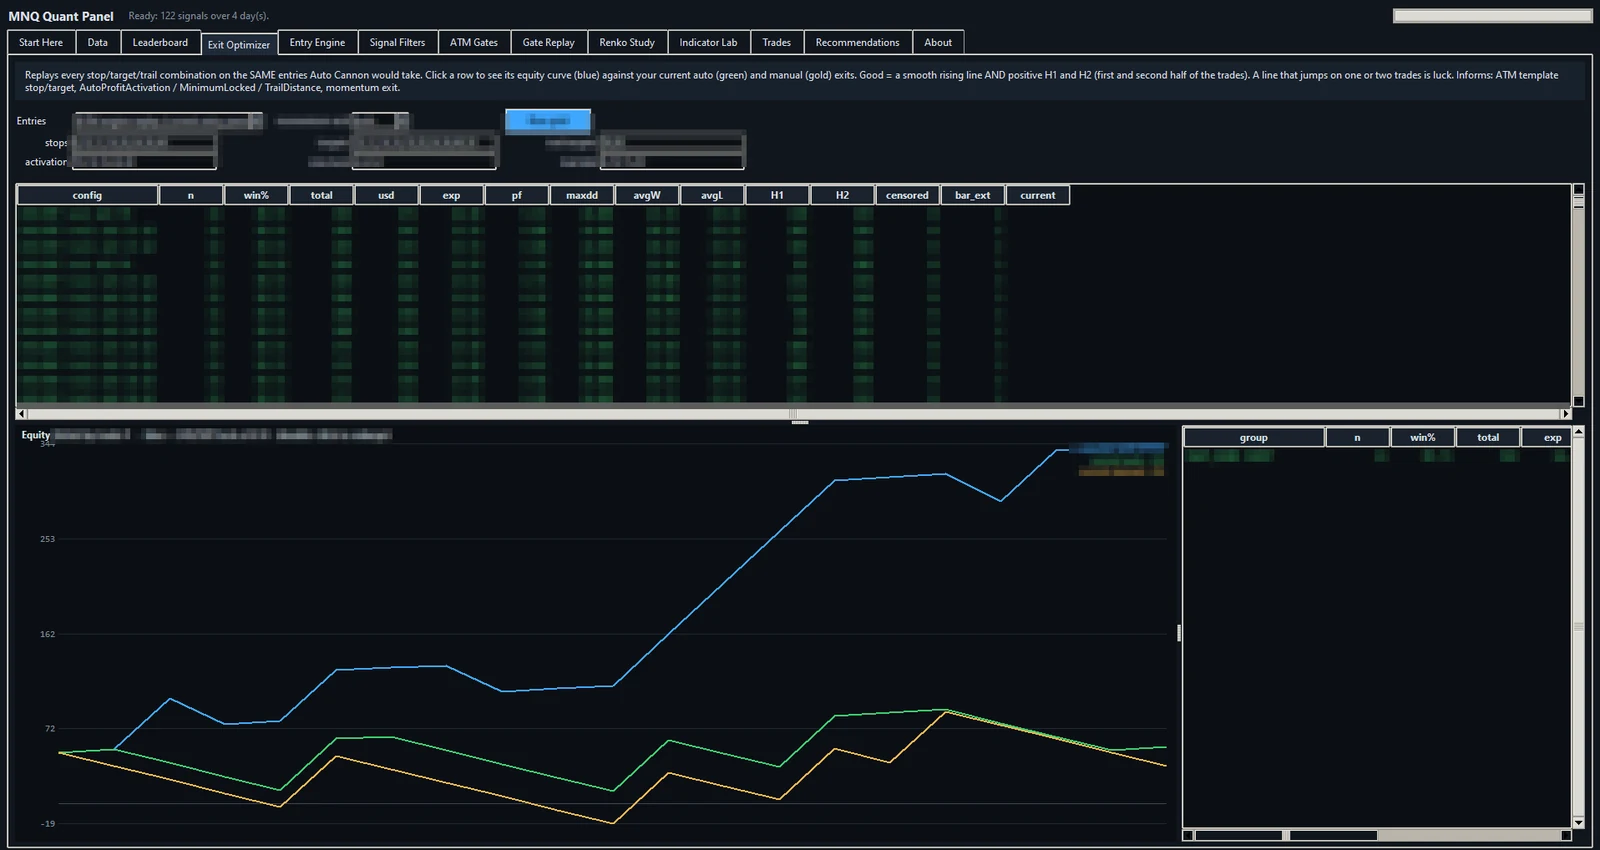
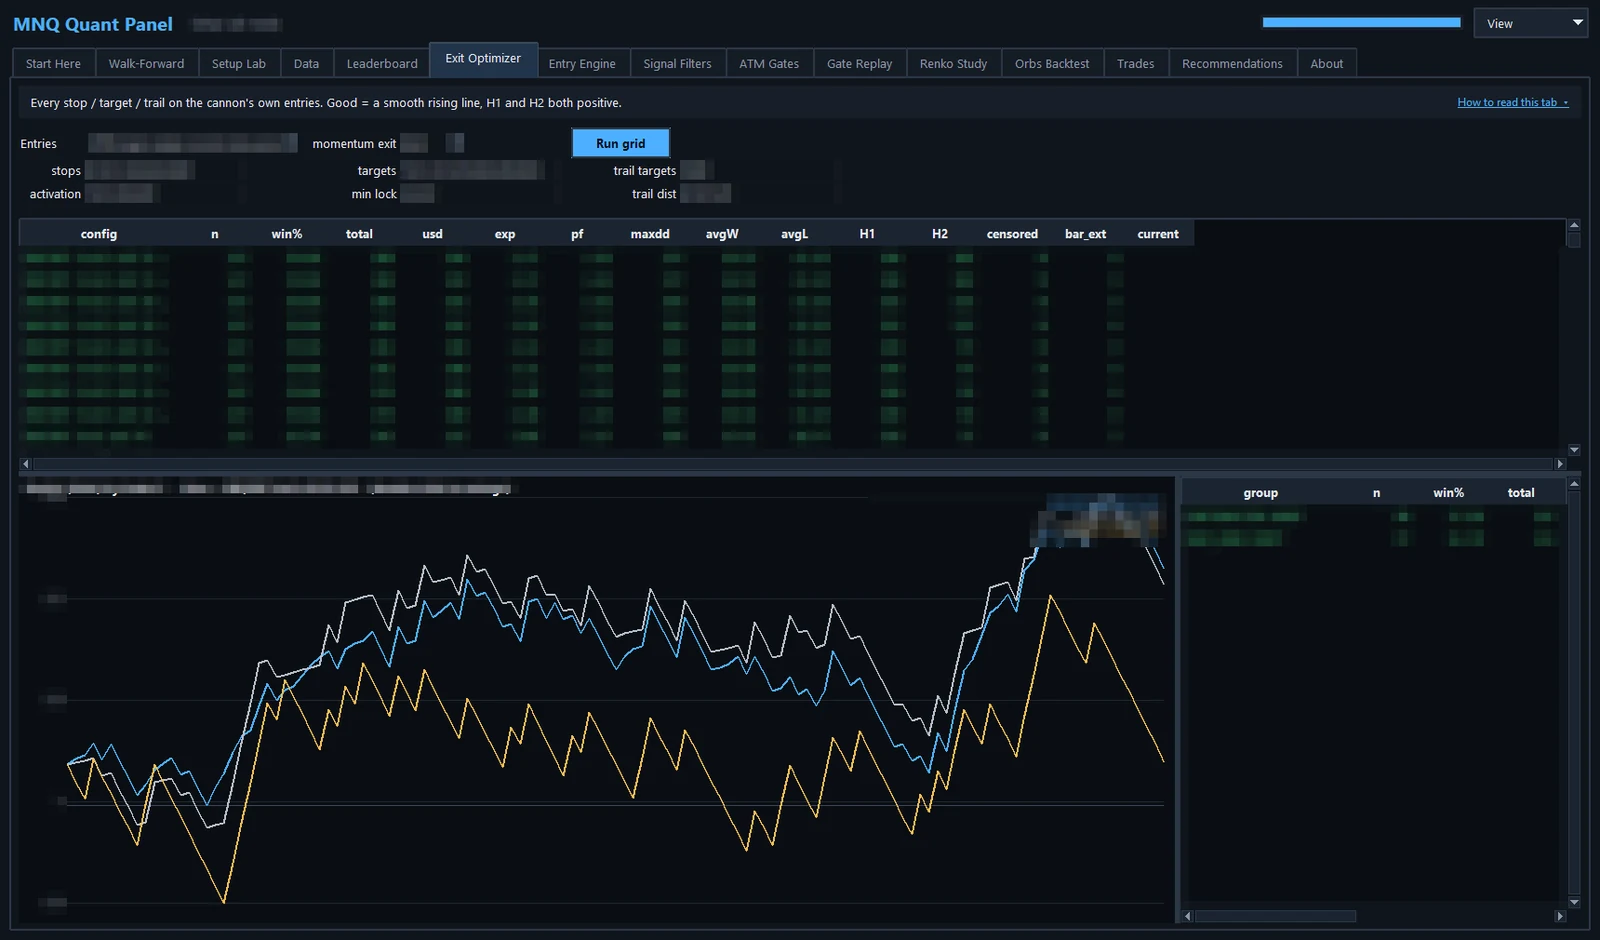
Refresh panel screenshots: Walk-Forward, Setup Lab, new look
- New screenshots of the redesigned panel (values, settings and model
  names pixelated as before).
- New sections: Setup Lab ("One setup at a time") and Start Here
  ("Evidence before opinion"); the walking-forward section now shows the
  Walk-Forward tab and calendar.
- Tab list updated (Walk-Forward, Setup Lab, Orbs Backtest).

diff --git a/index.html b/index.html
@@ -89,7 +89,7 @@
     <h2>The shadow trader</h2>
     <p class="sub">The idea that makes the rest possible. A live strategy only learns from the trades it takes. The shadow trader learns from every signal, whether we traded it or not.</p>
     <div class="row flip">
-      <div class="pic"><img src="img/panel_leaderboard.webp" alt="Quant panel leaderboard: cumulative ticks for every shadow model" width="1600" height="850"></div>
+      <div class="pic"><img src="img/panel_leaderboard.webp" alt="Quant panel leaderboard: cumulative ticks for every shadow model" width="1600" height="940"></div>
       <div>
         <ul>
           <li><b>Every signal, many trades.</b> Each signal opens a family of hypothetical trades: different entries, stops, targets and trailing exits, all at once.</li>
@@ -106,13 +106,13 @@
   <section>
     <h2>The quant panel</h2>
     <p class="sub">A desktop app that reads every log and asks one question over and over: what would have happened if we had traded differently?</p>
-    <div class="bar"><img src="img/panel_tabs.webp" alt="Quant panel tabs" width="1180" height="70"></div>
-    <p class="cap">Start Here, Data, Leaderboard, Exit Optimizer, Entry Engine, Signal Filters, ATM Gates, Gate Replay, Renko Study, Indicator Lab, Trades, Recommendations.</p>
+    <div class="bar"><img src="img/panel_tabs.webp" alt="Quant panel tabs" width="1470" height="42"></div>
+    <p class="cap">Start Here, Walk-Forward, Setup Lab, Data, Leaderboard, Exit Optimizer, Entry Engine, Signal Filters, ATM Gates, Gate Replay, Renko Study, Orbs Backtest, Trades, Recommendations.</p>
   </section>
 
   <section>
     <div class="row">
-      <div class="pic"><img src="img/panel_exit_optimizer.webp" alt="Exit optimizer: equity curve of the selected exit against the current live exits" width="1600" height="850"></div>
+      <div class="pic"><img src="img/panel_exit_optimizer.webp" alt="Exit optimizer: equity curve of the selected exit against the current live exits" width="1600" height="940"></div>
       <div>
         <h2>Replay, don't guess</h2>
         <ul>
@@ -127,13 +127,42 @@
 
   <section>
     <div class="row flip">
-      <div class="pic"><img src="img/panel_renko_study.webp" alt="Renko study grid, values hidden" width="1600" height="850"></div>
+      <div class="pic"><img src="img/panel_renko_study.webp" alt="Renko study grid, values hidden" width="1600" height="940"></div>
       <div>
         <h2>Every indicator is a hypothesis</h2>
         <ul>
-          <li><b>Indicator Lab</b> re-runs the signal engine on logged data with one setting changed at a time, and first proves it reproduces the live signals exactly.</li>
+          <li><b>Orbs Backtest</b> re-runs the signal engine on logged data with one setting changed at a time, and first proves it reproduces the live signals exactly.</li>
           <li><b>Gate Replay</b> scores each signal at the moment it fired and shows which filters saved money and which only got in the way.</li>
           <li><b>Renko Study</b> rebuilds the environment chart at many brick sizes from raw ticks.</li>
+        </ul>
+      </div>
+    </div>
+  </section>
+
+  <section>
+    <div class="row">
+      <div class="pic"><img src="img/panel_setup_lab.webp" alt="Setup Lab: one setup's rules on the left, its equity across every logged day on the right, values hidden" width="1600" height="940"></div>
+      <div>
+        <h2>One setup at a time</h2>
+        <ul>
+          <li><b>Setup Lab</b> isolates a single setup and direction and replays it on every logged day. No day is left out.</li>
+          <li><b>Every rule on one dial:</b> entry, score gates, exits and timing. Turn one and the whole history replays.</li>
+          <li><b>Patterns, not feelings.</b> Each single change is graded by the same hard rule, and only the ones that hold up in both halves of the data are called forming.</li>
+          <li><b>From research to the strategy:</b> the lab lists exactly which strategy settings to type in to run what was dialled.</li>
+        </ul>
+      </div>
+    </div>
+  </section>
+
+  <section>
+    <div class="row flip">
+      <div class="pic"><img src="img/panel_start_here.webp" alt="Start Here: changes with enough evidence and a watch list, values hidden" width="1600" height="940"></div>
+      <div>
+        <h2>Evidence before opinion</h2>
+        <ul>
+          <li><b>Start Here</b> shows only the changes with enough evidence behind them, and a watch list of promising ones that need more days.</li>
+          <li><b>Confidence is capped</b> by the number of days logged, however good a result looks.</li>
+          <li><b>One or two changes at a time,</b> in simulation first.</li>
         </ul>
       </div>
     </div>
@@ -148,8 +177,8 @@
       <div class="step"><div class="n">03 · PROVE</div><h3>Judge on unseen days</h3><p>Run the next block with the new settings and judge them only on days that played no part in choosing them.</p></div>
       <div class="step"><div class="n">04 · REPEAT</div><h3>Keep or roll back</h3><p>If it still wins out of sample, it stays. If not, it goes. Then the next block begins.</p></div>
     </div>
-    <img src="img/panel_start_here.webp" alt="Start Here tab: changes with enough evidence and a watch list, values hidden" width="1600" height="850">
-    <p class="cap">Start Here lists only the changes with enough evidence, and a watch list of promising ones that need more days. Confidence is capped by the number of days logged, however good a result looks.</p>
+    <img src="img/panel_walkforward.webp" alt="Walk-Forward tab: trading calendar, settings paths and verdicts, values hidden" width="1600" height="940">
+    <p class="cap">The Walk-Forward tab does the bookkeeping. Every day is replayed with the settings that were really in force that day. Each change is drawn as its own path, with and without it, and graded only on the days after it was made. A trading calendar marks holidays, early closes and decision days.</p>
   </section>
 
   <section>
